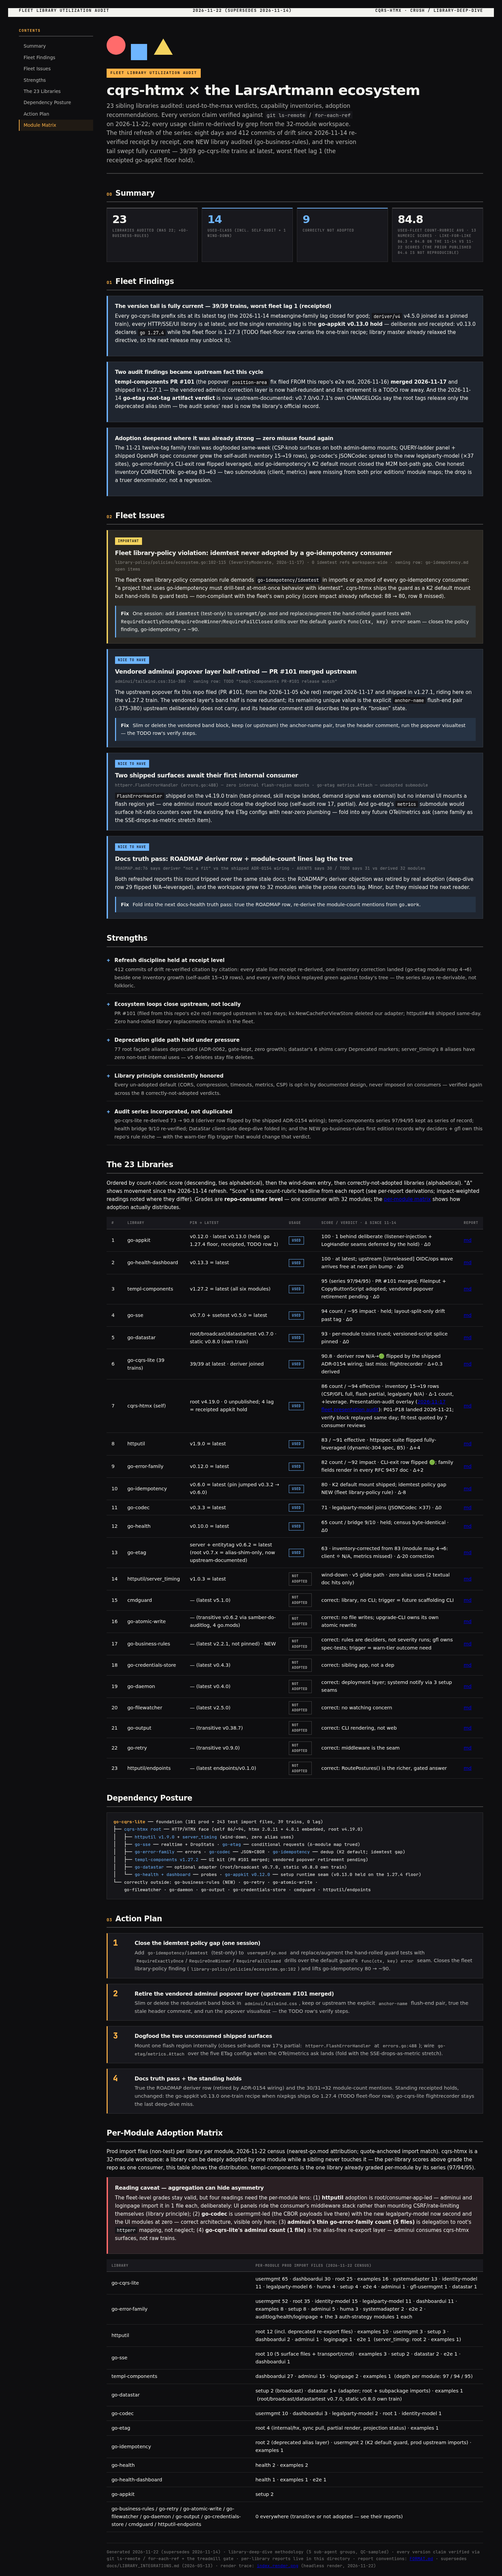
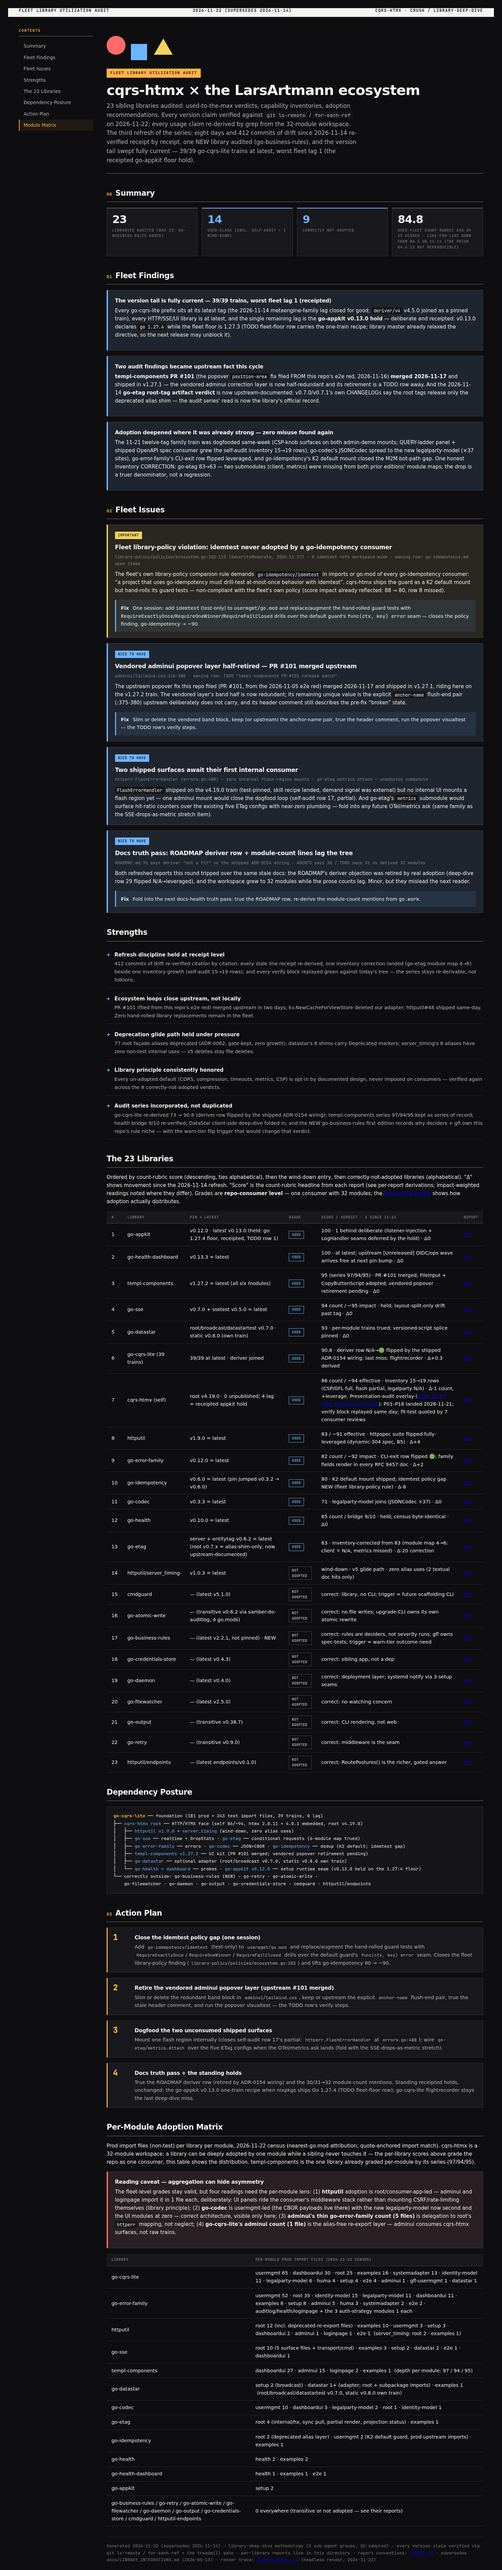
chore: auto-commit 3 changed file(s) (heuristic)
docs/review/libs/index.html
docs/review/libs/index.render.png
docs/status/2026-11-22_14-07_fleet-libs-audit-refresh-23-libs-and-self-review_status.md

Daemon: true

Changed region(s): [[0.2164, 0.0312, 0.9583, 0.935], [0.6492, 0.0312, 0.6801, 0.0623]]

diff --git a/docs/review/libs/index.html b/docs/review/libs/index.html
@@ -877,7 +877,7 @@
         <div class="stat-grid">
           <div class="stat-card">
             <div class="stat-value">23</div>
-            <div class="stat-label">Libraries audited (was 22; +go-business-rules)</div>
+            <div class="stat-label">Libraries audited (was 22; go-business-rules added)</div>
           </div>
           <div class="stat-card stat-good">
             <div class="stat-value">14</div>
@@ -889,7 +889,7 @@
           </div>
           <div class="stat-card">
             <div class="stat-value">84.8</div>
-            <div class="stat-label">Used-fleet count-rubric avg &middot; 13 numeric scores &middot; like-for-like 86.3 &rarr; 84.8 on the 11-14 vs 11-22 scores (the prior published 84.6 is not reproducible)</div>
+            <div class="stat-label">Used-fleet count-rubric avg of 13 scores &middot; like-for-like down from 86.3 on 11-14 (the prior 84.6 is not reproducible)</div>
           </div>
         </div>
 

diff --git a/docs/status/2026-11-22_14-07_fleet-libs-audit-refresh-23-libs-and-self-review_status.md b/docs/status/2026-11-22_14-07_fleet-libs-audit-refresh-23-libs-and-self-review_status.md
@@ -218,3 +218,19 @@ A brainstorm, ranked roughly by impact. "Routed" says where it already lives.
 Not run, by decision to wait for your instructions: `nix run .#check-modules`, the docs-gates battery, any formatter, any `go test`, CI.
 
 **Tail note.** I raised `TAIL_BASELINE` from 15 to 16 rather than archive a report. The gate's own instruction is to archive before adding. Sixteen live reports against a budget of three is the next docs-health round's first job ((f) item 9).
+
+## Addendum (2026-11-22 14:4x): vision pass 2 on the re-rendered index
+
+Result: 5 of 5 core checks PASS (four stat cards in one row showing 23 / 14 / 9 / 84.8; the long caption wrapped inside its card; no literal entity text; the contents list complete and in document order; the hero names 23 libraries and 412 commits).
+
+| Defect it found | Action |
+| --- | --- |
+| The arrow in the 84.8 caption rendered as a plus at caption size ("86.3 + 84.8", reads as a sum) | Fixed: caption reworded to "like-for-like down from 86.3 on 11-14"; index re-rendered (1488 x 7604) and the receipt image replaced |
+| Card 1 caption broke as "+GO-" (reads like "+60") | Fixed: now "go-business-rules added" |
+| Contents list highlights "Module Matrix" while the page is at the top | Not fixed: the scroll spy lights the last intersecting section, and every section intersects in a full-page capture. Pre-existing; (f) item 43 |
+| Caption contrast about 3.6 to 4.1:1, below 4.5:1 for small text | Not fixed: a shared fleet template token; (f) item 43 |
+| Hero shapes sit about 15 px off a common baseline at full width | Not fixed: template; (f) item 43 |
+
+Not re-checked: the render after the two caption edits was not eyeballed again by a vision model. The change is two caption strings; the HTML parses clean and the count gate is green.
+
+This addendum supersedes (b) item 5 and (f) item 12, which still say the verdict was pending. Corpus re-pinned for this addendum: CORPUS_PLACEHOLDER lines.
